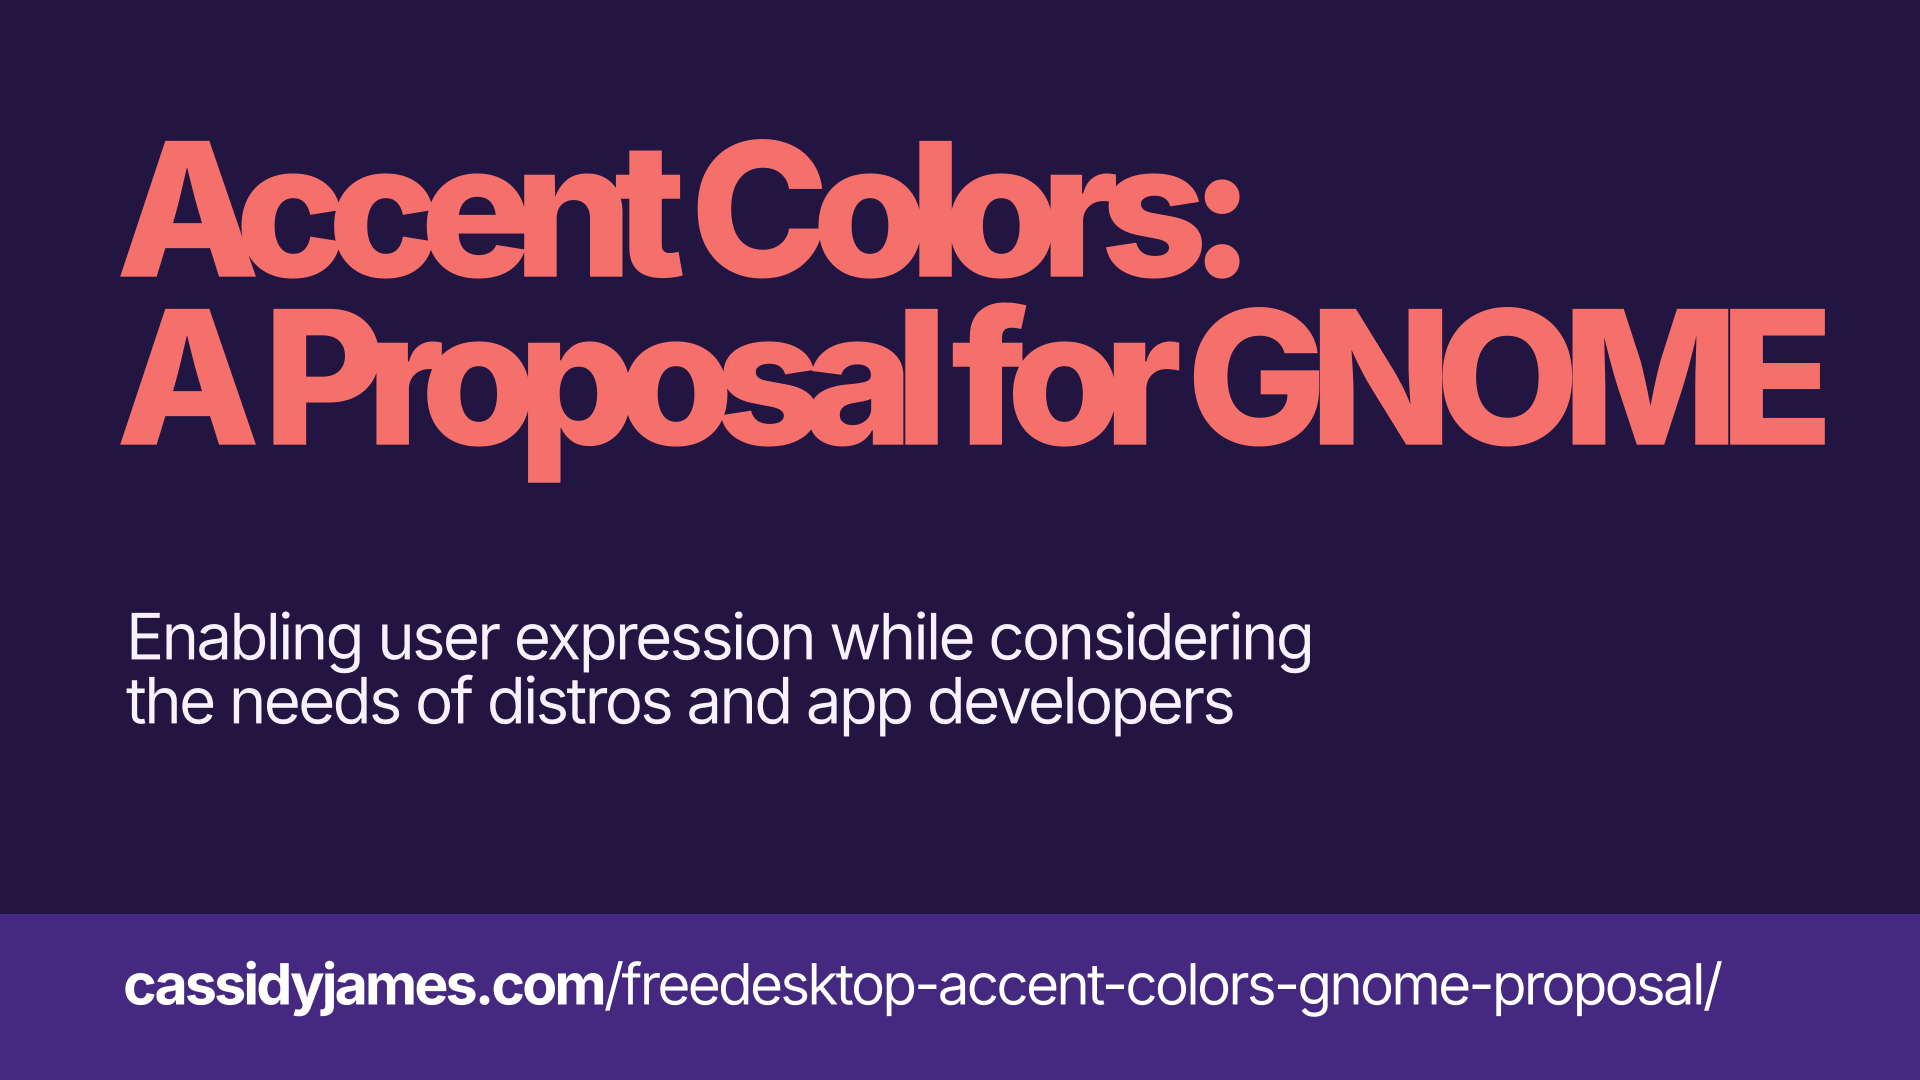
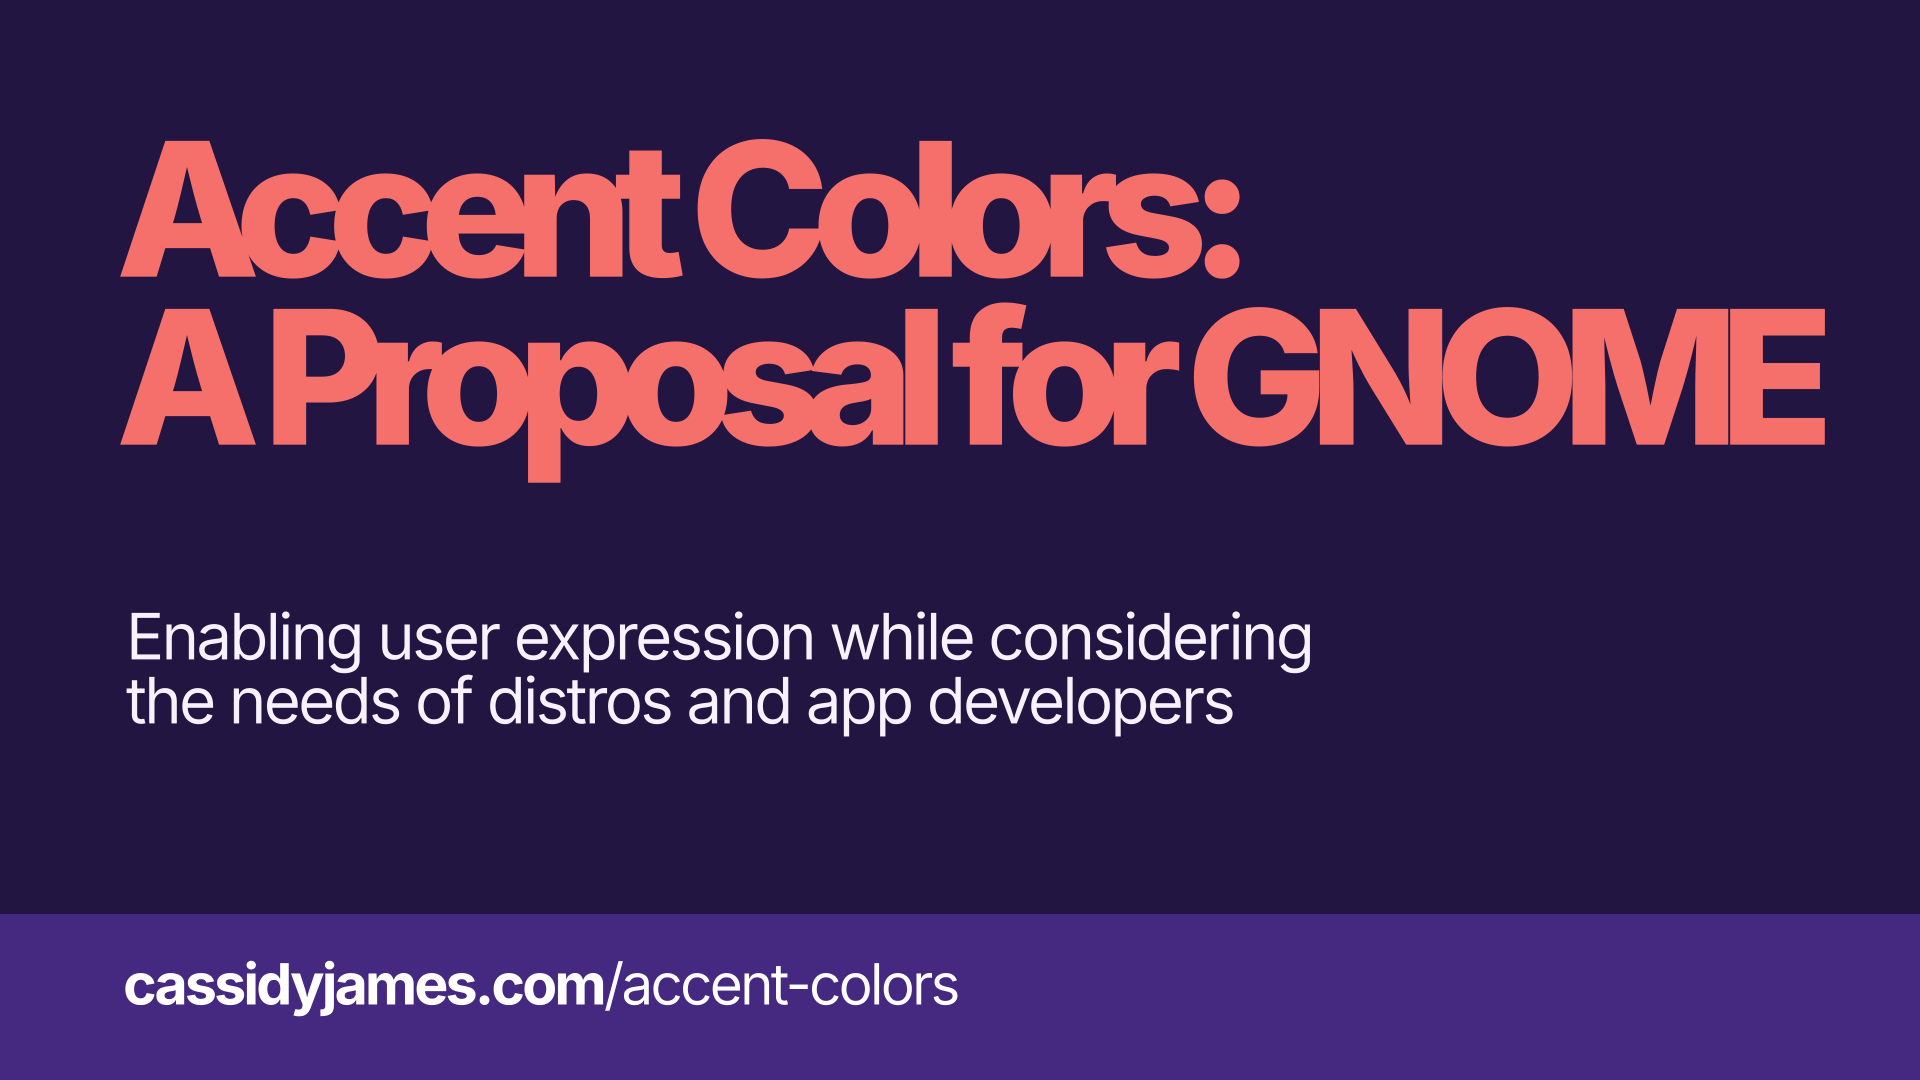
Accent colors: correct URL on card

Changed region(s): [[0.3125, 0.8861, 0.9062, 0.9472]]

diff --git a/_posts/2023-03-17-freedesktop-accent-colors-gnome-proposal.md b/_posts/2023-03-17-freedesktop-accent-colors-gnome-proposal.md
@@ -6,7 +6,10 @@ image: /images/blog/accent-colors/card.png
 hidden: true
 sitemap: false
 
-redirect_from: /blog/accent-colors-6f1ed002ab5595859014ebf0951522d9/
+redirect_from: 
+  - /blog/accent-colors-6f1ed002ab5595859014ebf0951522d9/
+  - /accent-colors/
+  - /accent-colors
 updated: 2023-06-26
 ---
 
